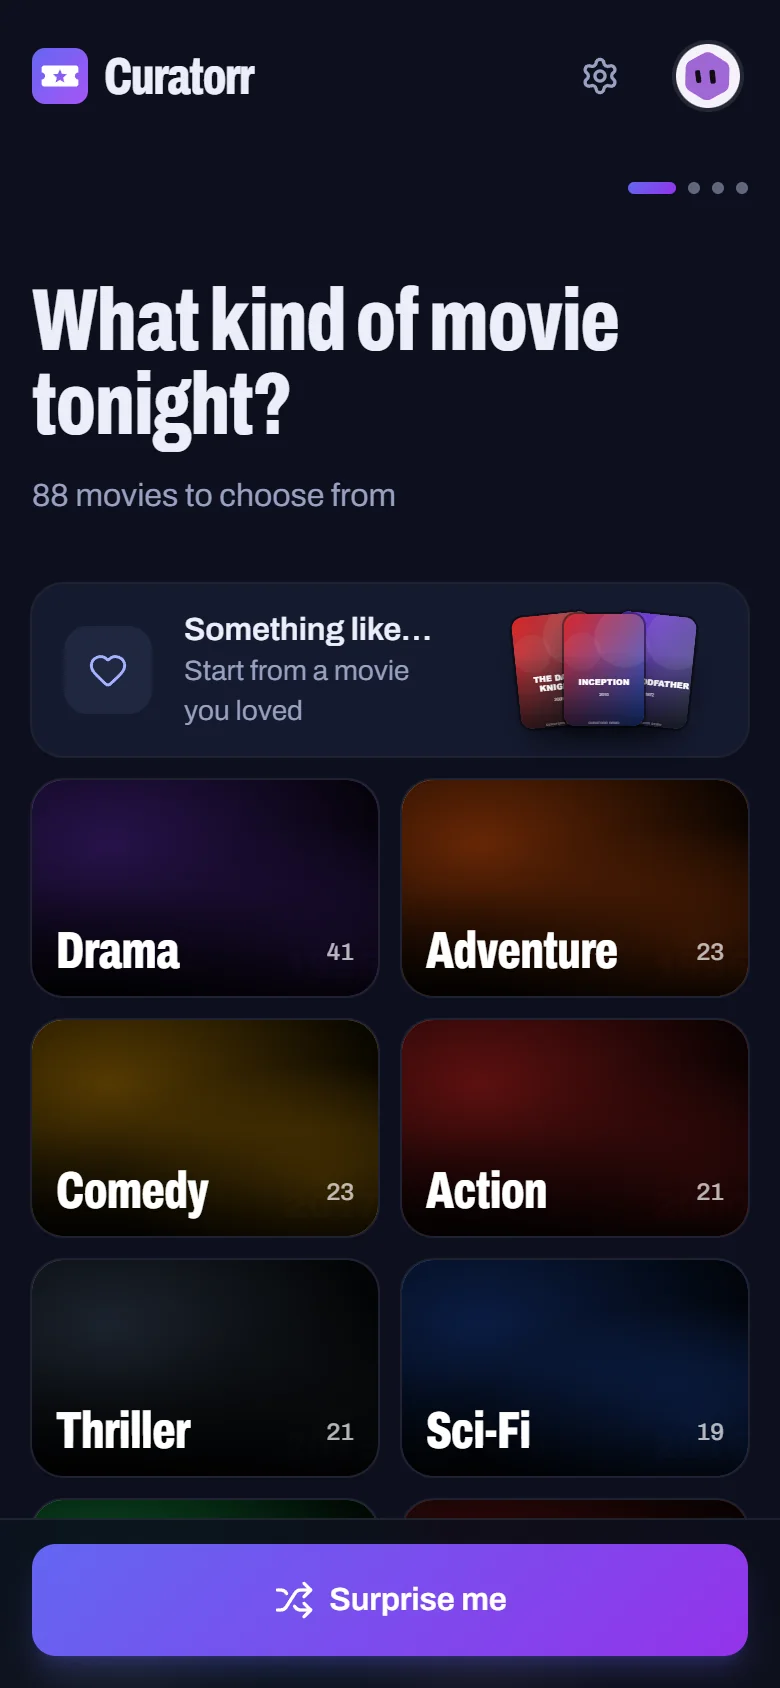
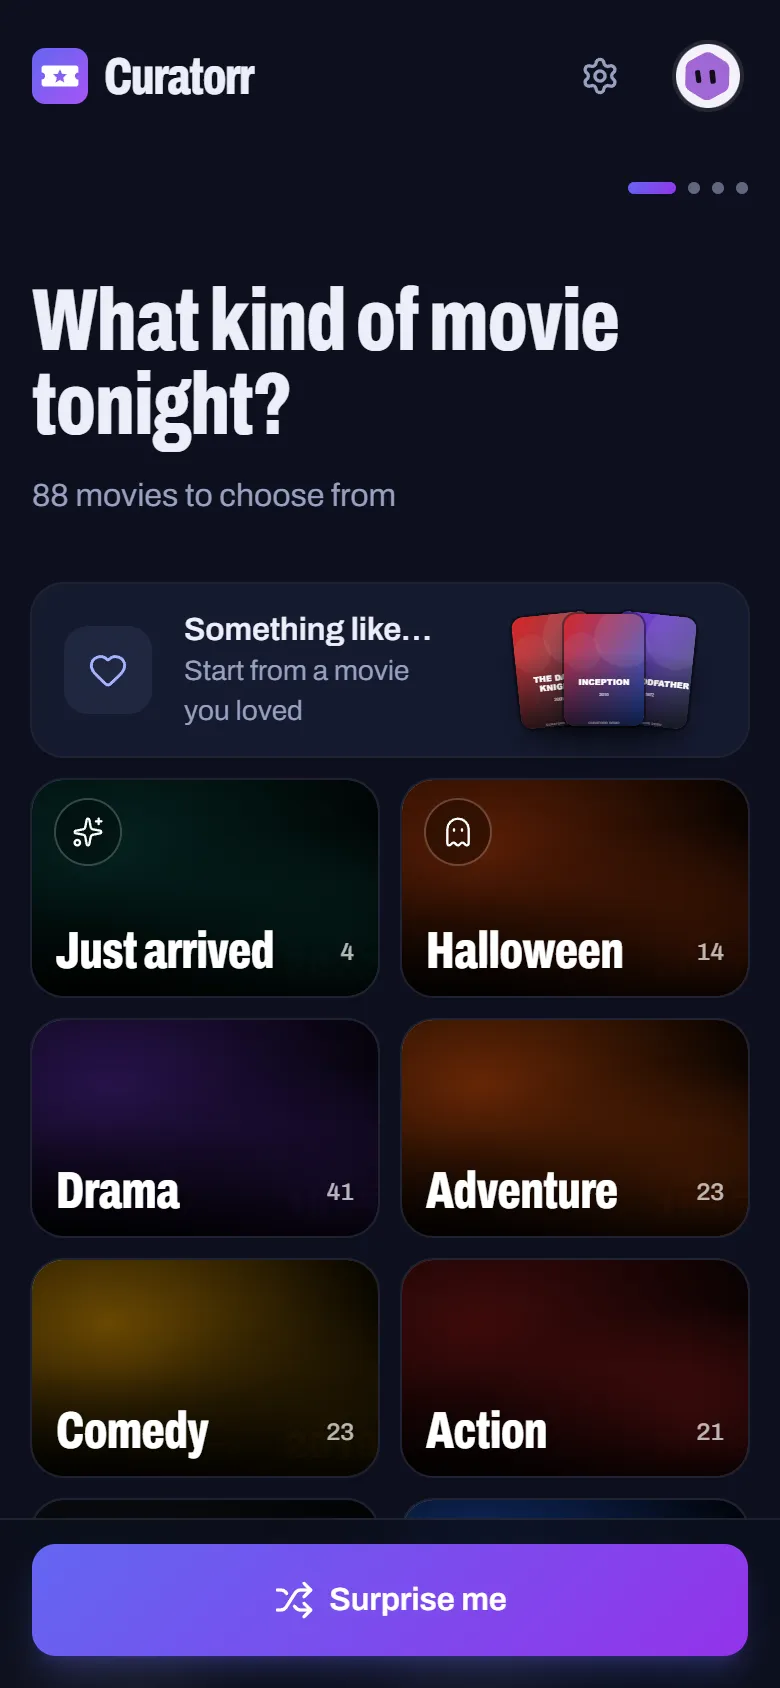
feat(wizard): suggest Halloween movies in October and Christmas movies in December
In October a Halloween tile joins the first question's shortcuts and goes
straight to a pick from the horror, the ghost, vampire and zombie movies
and those set on Halloween, which rank first with a "Set on Halloween"
chip. In December a Christmas tile does the same for Christmas movies.
A season lasts until 4 am after its last night, and its tile needs three
of its movies that the profile may watch. npm run eval reports a Season row.

diff --git a/shared/src/scoring.test.ts b/shared/src/scoring.test.ts
@@ -9,6 +9,7 @@ import {
   type ProfileContext,
 } from './scoring.js';
 import { sagaState } from './sagas.js';
+import { RESTRICTION_CERTS } from './taxonomy.js';
 import type { FeedbackEvent, Movie, Ratings } from './types.js';
 
 const noRatings: Ratings = { rt: null, imdb: null, tmdb: null, metacritic: null };
@@ -551,5 +552,80 @@ describe('Just arrived', () => {
     // Half of it is.
     const half = [...Array.from({ length: 4 }, () => arrived(3)), ...Array.from({ length: 4 }, () => arrived(200))];
     expect(wizardOptions(half, 'genre', {}, { image, now: NOW }).shelves).toHaveLength(1);
+  });
+});
+
+describe('seasons', () => {
+  afterEach(() => vi.unstubAllEnvs());
+  const image = (m: Movie, kind: 'fanart' | 'poster') => (kind === 'fanart' ? m.fanartUrl : m.posterUrl);
+  const OCTOBER = Date.parse('2026-10-20T20:00:00Z');
+  const DECEMBER = Date.parse('2026-12-10T20:00:00Z');
+  const ids = (ranked: { movie: Movie }[]) => ranked.map((r) => r.movie.id).sort((a, b) => a - b);
+  const shelves = (movies: Movie[], now: number) =>
+    (wizardOptions(movies, 'genre', {}, { image, now }).shelves ?? []).map((s) => [s.id, s.count]);
+
+  it('gives Halloween the horror, ghosts, vampires and zombies, and the movies set on Halloween', () => {
+    const spooky = [
+      movie({ genres: ['Horror'] }),
+      movie({ genres: ['Comedy'], themes: { supernatural: 2 } }),
+      movie({ genres: ['Comedy'], themes: { vampires: 2 } }),
+      movie({ genres: ['Action'], themes: { zombies: 2 } }),
+      movie({ genres: ['Family'], keywords: ['halloween party'] }),
+      movie({ genres: ['Family'], keywords: ['trick or treating'] }),
+    ];
+    // Sharks and dinosaurs are monsters, but not Halloween's.
+    const others = [movie({ genres: ['Thriller'], themes: { monsters: 4 } }), movie({ genres: ['Drama'] })];
+    const ranked = rankMovies([...spooky, ...others], { shelf: 'halloween' }, [], { now: OCTOBER, seed: 'test' });
+    expect(ids(ranked)).toEqual(ids(spooky.map((movie) => ({ movie }))));
+  });
+
+  it('puts the movies set on Halloween first, and says so', () => {
+    // Two points lower on Rotten Tomatoes, one lower in score: the +5 lifts it past the shuffle.
+    const set = movie({ genres: ['Horror'], keywords: ['halloween'], ratings: { rt: 80 } });
+    const plain = movie({ genres: ['Horror'], ratings: { rt: 82 } });
+    const ranked = rankMovies([plain, set], { shelf: 'halloween' }, [], { now: OCTOBER, seed: 'test' });
+    expect(ranked.map((r) => r.movie.id)).toEqual([set.id, plain.id]);
+    expect(ranked[0]!.reasons).toContainEqual({ kind: 'season', label: 'Set on Halloween' });
+    expect(ranked[1]!.reasons.some((r) => r.kind === 'season')).toBe(false);
+  });
+
+  it('gives Christmas the movies with Christmas in their keywords', () => {
+    const festive = [movie({ keywords: ['christmas eve'] }), movie({ keywords: ['santa claus'] }), movie({ keywords: ['christmas'] })];
+    const ranked = rankMovies([...festive, movie({ genres: ['Horror'] })], { shelf: 'christmas' }, [], { now: DECEMBER, seed: 'test' });
+    expect(ids(ranked)).toEqual(ids(festive.map((movie) => ({ movie }))));
+  });
+
+  it('offers each season on the first question in its own month, until 4 am after its last night', () => {
+    vi.stubEnv('TZ', 'Europe/Bucharest');
+    const library = [
+      ...Array.from({ length: 3 }, () => movie({ genres: ['Horror'] })),
+      ...Array.from({ length: 3 }, () => movie({ keywords: ['christmas'] })),
+    ];
+    expect(shelves(library, Date.parse('2026-10-01T05:00:00+03:00'))).toEqual([['halloween', 3]]);
+    expect(shelves(library, Date.parse('2026-10-31T23:00:00+02:00'))).toEqual([['halloween', 3]]);
+    expect(shelves(library, Date.parse('2026-11-01T03:30:00+02:00'))).toEqual([['halloween', 3]]);
+    expect(shelves(library, Date.parse('2026-11-01T05:00:00+02:00'))).toEqual([]);
+    expect(shelves(library, Date.parse('2026-12-24T20:00:00+02:00'))).toEqual([['christmas', 3]]);
+  });
+
+  it('needs three movies of the season that the profile may watch, however much of the library they are', () => {
+    const scary = Array.from({ length: 5 }, () => movie({ genres: ['Horror'], certification: 'R' }));
+    const friendly = [movie({ themes: { supernatural: 2 }, certification: 'PG' }), movie({ keywords: ['halloween'], certification: 'G' })];
+    const kids = ctx({ allowedCerts: new Set(RESTRICTION_CERTS.older_kid) });
+    expect(shelves(eligibleMovies([...scary, ...friendly], kids), OCTOBER)).toEqual([]);
+    const more = [...friendly, movie({ themes: { vampires: 2 }, certification: 'PG' })];
+    expect(shelves(eligibleMovies([...scary, ...more], kids), OCTOBER)).toEqual([['halloween', 3]]);
+    // A library of horror is all Halloween, and still gets the tile.
+    expect(shelves(scary, OCTOBER)).toEqual([['halloween', 5]]);
+  });
+
+  it("doesn't bring in a first part that isn't the season's", () => {
+    const part = (n: number, extra: Partial<Movie>) => movie({ genres: ['Comedy'], saga: { id: 70, title: 'Pals', part: n, parts: 2 }, ...extra });
+    const [p1, p2] = [part(1, {}), part(2, { keywords: ['halloween'] })];
+    const horror = movie({ genres: ['Horror'] });
+    const library = [p1, p2, horror];
+    const sagas = sagaState(library, new Set());
+    const ranked = rankMovies(eligibleMovies(library, ctx({ sagas })), { shelf: 'halloween' }, [], { now: OCTOBER, seed: 'test', sagas });
+    expect(ranked.map((r) => r.movie.id)).toEqual([horror.id]);
   });
 });

diff --git a/shared/src/scoring.ts b/shared/src/scoring.ts
@@ -3,15 +3,19 @@ import {
   JUST_ARRIVED,
   MIN_OPTION_COUNT,
   MOODS,
+  SEASONS,
   THEMES,
   TIME_OPTIONS,
   genreById,
   moodById,
+  seasonById,
   themeById,
   timeById,
+  type SeasonDef,
   type ShelfDef,
 } from './taxonomy.js';
 import { emptySagaState, type SagaState } from './sagas.js';
+import { keywordPhrases } from './tagger.js';
 import type {
   Criteria,
   FeedbackEvent,
@@ -204,6 +208,8 @@ export function tagStrength(score: number | undefined) {
 
 function reasonsFor(m: Movie, c: Criteria): Reason[] {
   const reasons: Reason[] = [];
+  const season = c.shelf ? seasonById.get(c.shelf) : undefined;
+  if (season?.chip && onHoliday(m, season)) reasons.push({ kind: 'season', label: season.chip });
   if (c.genre && m.genres.includes(c.genre)) {
     reasons.push({ kind: 'genre', label: genreById.get(c.genre)?.label ?? c.genre });
   }
@@ -355,10 +361,34 @@ export function arrivedLately(m: Movie, now: number) {
   return days != null && days <= JUST_ARRIVED_DAYS;
 }
 
+/** A movie set on the season's holiday itself gets this much on the season's shortcut, so those lead it. */
+const SEASON_BONUS = 5;
+
+/** The season the evening of `now` belongs to, if any. */
+export function seasonFor(now: number): SeasonDef | null {
+  const month = Number(pickingDay(now).slice(5, 7));
+  return SEASONS.find((s) => s.month === month) ?? null;
+}
+
+/** Whether one of the movie's keywords holds a holiday term, as a whole word: "halloween party" does. */
+function onHoliday(m: Movie, season: SeasonDef) {
+  return m.keywords.some((k) => [...keywordPhrases(k)].some((p) => season.keywords.includes(p)));
+}
+
+function inSeason(m: Movie, season: SeasonDef) {
+  return (
+    onHoliday(m, season) ||
+    Boolean(season.genres?.some((g) => m.genres.includes(g))) ||
+    Boolean(season.themes?.some((t) => (m.themes[t] ?? 0) > 0))
+  );
+}
+
 /** Whether the movie belongs on the shortcut's shelf; without one, every movie does. */
 export function matchesShelf(m: Movie, shelf: string | null | undefined, now: number) {
   if (!shelf) return true;
-  return shelf === JUST_ARRIVED.id && arrivedLately(m, now);
+  if (shelf === JUST_ARRIVED.id) return arrivedLately(m, now);
+  const season = seasonById.get(shelf);
+  return season ? inSeason(m, season) : false;
 }
 
 /** Skip and shown penalties, the request or watchlist bonus, the newly added bonus and the daily jitter. */
@@ -436,6 +466,7 @@ export function rankMovies(
   const signals = profileSignals(feedback, opts);
   const sagas = opts.sagas ?? emptySagaState();
   const startingSaga = c.time === 'saga';
+  const season = c.shelf ? seasonById.get(c.shelf) : undefined;
 
   // "Start a saga" only offers first parts of sagas the profile hasn't started.
   const base = eligible.filter(
@@ -446,8 +477,8 @@ export function rankMovies(
       (!startingSaga || sagas.starters.has(m.id)),
   );
 
-  // A matching sequel whose earlier part is unwatched brings in that part instead,
-  // as long as it fits the genre and time answers. On "Just arrived" it needn't be new itself.
+  // A matching sequel whose earlier part is unwatched brings in that part instead, as long as it
+  // fits the genre and time answers, and a season's shortcut. On "Just arrived" it needn't be new.
   const startsFor = new Set<number>();
   if (!startingSaga) {
     const eligibleById = new Map(eligible.map((m) => [m.id, m]));
@@ -457,6 +488,7 @@ export function rankMovies(
         const first = eligibleById.get(sagas.blockedBy.get(sequel.id)?.id ?? -1);
         if (!first || !matchesCriteria(sequel, c) || !matchesShelf(sequel, c.shelf, opts.now)) continue;
         if (!matchesGenre(first, c.genre) || !matchesTime(first, c.time)) continue;
+        if (season && !inSeason(first, season)) continue;
         startsFor.add(first.id);
         if (!inBase.has(first.id)) {
           base.push(first);
@@ -506,6 +538,7 @@ export function rankMovies(
     }
     if (c.theme) score += MAX_THEME_BONUS * tagStrength(m.themes[c.theme]);
     if (c.mood) score += MAX_MOOD_BONUS * tagStrength(m.moods[c.mood]);
+    if (season && onHoliday(m, season)) score += SEASON_BONUS;
     score += taste.get(m.id) ?? 0;
 
     const adj = personalAdjustment(m, signals, opts);
@@ -587,6 +620,10 @@ function shelfOptions(pool: Movie[], now: number, opts: FacetOptions, used: Set<
   if (fresh.length >= MIN_OPTION_COUNT && fresh.length <= pool.length / 2) {
     out.push(shelfOption(JUST_ARRIVED, fresh, opts, used));
   }
+  // However much of the library is the season's: a library of horror is all Halloween.
+  const season = seasonFor(now);
+  const seasonal = season ? pool.filter((m) => inSeason(m, season)) : [];
+  if (season && seasonal.length >= MIN_OPTION_COUNT) out.push(shelfOption(season, seasonal, opts, used));
   return out;
 }
 

diff --git a/shared/src/taxonomy.ts b/shared/src/taxonomy.ts
@@ -454,7 +454,34 @@ export interface ShelfDef {
 /** The movies that arrived in the library lately. */
 export const JUST_ARRIVED: ShelfDef = { id: 'new', label: 'Just arrived', icon: 'Sparkles', color: '#0f766e' };
 
-export const SHELVES: ShelfDef[] = [JUST_ARRIVED];
+/** A season's movies, offered as a shortcut during its month. */
+export interface SeasonDef extends ShelfDef {
+  /** 1–12, by the evening's date (the day turns over at 4 am). */
+  month: number;
+  /** Keywords that set a movie on the holiday itself, also inside longer keywords ("halloween party"). */
+  keywords: string[];
+  /** The chip for those movies, which rank first. */
+  chip?: string;
+  /** Genres and themes that fit the season too. */
+  genres?: string[];
+  themes?: string[];
+}
+
+export const SEASONS: SeasonDef[] = [
+  {
+    id: 'halloween', label: 'Halloween', icon: 'Ghost', color: '#c2410c', month: 10,
+    keywords: ['halloween', 'trick or treating'], chip: 'Set on Halloween',
+    // Not Monsters & Creatures: sharks, dinosaurs and kaiju aren't Halloween's.
+    genres: ['Horror'], themes: ['supernatural', 'vampires', 'zombies'],
+  },
+  {
+    id: 'christmas', label: 'Christmas', icon: 'TreePine', color: '#15803d', month: 12,
+    // Every match is set at Christmas, so none needs a chip.
+    keywords: ['christmas', 'santa claus'],
+  },
+];
+
+export const SHELVES: ShelfDef[] = [JUST_ARRIVED, ...SEASONS];
 
 /** Certifications allowed per Plex Home restriction profile (US, UK and DE ratings). */
 export const RESTRICTION_CERTS: Record<'little_kid' | 'older_kid' | 'teen', string[]> = {
@@ -473,3 +500,4 @@ export const moodById = new Map(MOODS.map((m) => [m.id, m]));
 export const genreById = new Map(GENRES.map((g) => [g.id, g]));
 export const timeById = new Map(TIME_OPTIONS.map((t) => [t.id, t]));
 export const shelfById = new Map(SHELVES.map((s) => [s.id, s]));
+export const seasonById = new Map(SEASONS.map((s) => [s.id, s]));

diff --git a/server/src/scripts/eval.ts b/server/src/scripts/eval.ts
@@ -216,7 +216,7 @@ const rank = (p: Picking, c: Criteria, limit?: number) => {
 // Would it have suggested what the profile watched?
 // ---------------------------------------------------------------------------
 
-const FAMILIES = ['Surprise me', 'genre', 'genre + theme', 'genre + mood', 'Just arrived'] as const;
+const FAMILIES = ['Surprise me', 'genre', 'genre + theme', 'genre + mood', 'Just arrived', 'Season'] as const;
 type Family = (typeof FAMILIES)[number];
 
 /** How one watch fared for one kind of question (averaged over the questions of that kind). */
@@ -245,9 +245,8 @@ function questions(p: Picking, m: Movie): { family: Family; c: Criteria }[] {
   const out: { family: Family; c: Criteria }[] = [{ family: 'Surprise me', c: {} }];
   const first = wizardOptions(p.eligible, 'genre', {}, { ...facet, now: p.opts.now });
   for (const shelf of first.shelves ?? []) {
-    if (shelf.id === JUST_ARRIVED.id && matchesShelf(m, shelf.id, p.opts.now)) {
-      out.push({ family: 'Just arrived', c: { shelf: shelf.id } });
-    }
+    if (!matchesShelf(m, shelf.id, p.opts.now)) continue;
+    out.push({ family: shelf.id === JUST_ARRIVED.id ? 'Just arrived' : 'Season', c: { shelf: shelf.id } });
   }
   const genres = new Set(first.options.map((o) => o.id));
   for (const genre of m.genres.filter((g) => genres.has(g))) {

diff --git a/shared/src/types.ts b/shared/src/types.ts
@@ -113,7 +113,19 @@ export interface WizardOptionsResponse {
 }
 
 export interface Reason {
-  kind: 'genre' | 'theme' | 'mood' | 'keyword' | 'time' | 'rating' | 'watchlist' | 'requested' | 'saga' | 'added' | 'taste';
+  kind:
+    | 'genre'
+    | 'theme'
+    | 'mood'
+    | 'keyword'
+    | 'time'
+    | 'rating'
+    | 'watchlist'
+    | 'requested'
+    | 'saga'
+    | 'added'
+    | 'taste'
+    | 'season';
   label: string;
 }
 

diff --git a/README.md b/README.md
@@ -20,6 +20,7 @@ It's a self-hosted, installable PWA built for the *arr stack, with a look borrow
 - **Plex Home or Jellyfin profiles.** Each person picks their profile and never gets suggestions for movies they already watched in Plex or Jellyfin. Parental restrictions carry over, and with Jellyfin, so does which libraries each person can open.
 - **Smart questions.** The wizard only offers answers that match at least three movies in your library, and skips questions that wouldn't narrow anything down. Or tap **Surprise me** to skip the questions and get one of the ten best picks, drawn again each evening.
 - **Just arrived.** A tile on the first question goes straight to the best of what arrived in your library this past month, each pick saying when it came.
+- **In season.** In October a **Halloween** tile goes straight to a spooky pick, movies set on Halloween first. In December a **Christmas** tile does the same for Christmas movies.
 - **Something like…** Start from a movie you loved (what you watched lately is listed first, or search the library) and get the unwatched movies that share the most keywords and themes with it.
 - **Ranked by critics, audiences and you.** The Rotten Tomatoes critics' score counts as much as the IMDb audience rating, so a crowd-pleaser the critics panned still gets its chance. Movies that just arrived rank higher for a few weeks, and each person's picks lean toward what they watched lately, saying "Because you watched …" when that made the difference.
 - **Not tonight / Watchlist / Seen it / Never.** Swipe or tap, and undo any of them. "Not tonight" lowers a movie for two weeks, and longer each time you pass on it again. "Watchlist" saves it and ranks it higher next time. "Seen it" and "Never" hide it until you restore it in Settings. A pick you're shown but don't play slips a little each evening, so the same few movies don't come back every night.
@@ -31,7 +32,7 @@ It's a self-hosted, installable PWA built for the *arr stack, with a look borrow
 ## Screenshots
 
 <p align="center">
-  <img src="docs/screenshots/wizard.webp" width="260" alt="The first question, What kind of movie tonight?, with genre cards, Something like… and Surprise me">
+  <img src="docs/screenshots/wizard.webp" width="260" alt="The first question, What kind of movie tonight?, with Something like…, the Just arrived and Halloween shortcuts, genre cards and Surprise me">
   <img src="docs/screenshots/pick.webp" width="260" alt="Tonight's pick: Avengers: Endgame, with its ratings, its Time Travel theme and a Watch on Plex button">
   <img src="docs/screenshots/like.webp" width="260" alt="Something like Inception: Everything Everywhere All at Once, labelled You requested this and Added 6 days ago">
 </p>
@@ -132,6 +133,8 @@ If your proxy asks people to sign in, let `/api/radarr/webhook` through. Radarr 
 5. **Close matches**: if fewer than six movies match every answer, the list is topped up with other movies of that genre and length, clearly labelled: first those matching the theme *or* the mood, then the rest.
 6. **Something like…**: eligible movies are compared with the one you loved by their TMDB keywords, themes, moods and genres. A rare keyword in common (*time loop*) counts for more than a common one. Likeness decides the order and the rating breaks near-ties. Skips, shown picks, requests, the watchlist, new arrivals and the daily shuffle work as above. Other parts of the same saga are left out, and movies that only share a genre or a mood are labelled as loose matches.
 7. **Shortcuts**: tiles on the first question that go straight to a pick, ranked as above, without the questions. **Just arrived** has the movies whose file arrived in the last 30 days. Its tile shows when there are at least three of them, and no more than half of what's left to watch, so a library you just imported isn't all "new". A sequel that just arrived brings in its first part if you haven't seen it, as answers do.
+
+   **Halloween** (in October, until 4 am after its last night) has horror and the movies tagged Supernatural, Vampires or Zombies, plus any set on Halloween (a *halloween* or *trick or treating* keyword). Those get + 5 and a "Set on Halloween" chip. **Christmas** (in December) has the movies with a *christmas* or *santa claus* keyword. A season's tile needs three of its movies that the person may watch; a first part only comes along if it fits the season too.
 
 ## Configuration
 

diff --git a/CLAUDE.md b/CLAUDE.md
@@ -32,7 +32,7 @@ npm run icons        # regenerates the committed PWA icons from web/public/logo.
 An npm workspace in three parts. `@curatorr/shared` is consumed as TypeScript source (no build step).
 
 - **`shared/`**: pure, unit-tested logic used by both sides.
-  - `taxonomy.ts`: the genre, theme, mood and time vocabulary, the first question's shortcuts (`SHELVES`, `JUST_ARRIVED`), plus wizard constants (`STEP_ORDER`, `MIN_OPTION_COUNT = 3`).
+  - `taxonomy.ts`: the genre, theme, mood and time vocabulary, the first question's shortcuts (`SHELVES`: `JUST_ARRIVED` and the `SEASONS`), plus wizard constants (`STEP_ORDER`, `MIN_OPTION_COUNT = 3`).
   - `tagger.ts`: turns TMDB genres, keywords and overview into themes and moods. `explainTags` keeps the evidence behind each tag.
     - Each keyword counts once per tag, through its best term, and each term counts once.
     - Weak terms only back up a strong term, an implying genre or the plot (for moods: a genre lean, a strong term or the runtime bonus). TMDB's tone words (amused, hopeful…) are weak for Light & Fun and Feel-Good because they're noisy.
@@ -46,7 +46,12 @@ An npm workspace in three parts. `@curatorr/shared` is consumed as TypeScript so
     - **Shortcuts** (`Criteria.shelf`): `matchesShelf` keeps a shortcut's movies, ranked as usual and not shuffled.
       - Given `now`, `wizardOptions` returns them as `shelves` on the genre step. `npm run eval` reports each as a row of its own.
       - **Just arrived** (`'new'`) is the movies that arrived in the last `JUST_ARRIVED_DAYS` (30), by `arrivalTime`. Its tile needs at least 3 of them and at most half of the pool, so a library imported last week isn't all "new". Every pick on it says when it arrived.
-      - A new sequel still brings in its unwatched first part, as answers do.
+      - **Seasons** (`SEASONS`):
+        - **Halloween** is October and **Christmas** is December, by `pickingDay`, so the last night lasts until 4 am (`seasonFor`).
+        - A season has keywords that set a movie on the holiday itself (found inside longer keywords through `keywordPhrases`), plus genres and themes that fit it. Halloween is Horror, Supernatural, Vampires and Zombies; Monsters is left out because of its sharks and kaiju.
+        - Keyword matches get `SEASON_BONUS` (5) and the season's chip.
+        - The tile needs at least 3 movies, with no half rule.
+      - **Sagas:** a new sequel still brings in its unwatched first part, as answers do. On a season, the first part must fit the season too.
   - `taste.ts`: a profile's taste vector, summed from the `similar.ts` signatures of what it watched: media server watches and `accepted` count fully, `seen` 0.3, with a 60-day half-life. Confidence grows with history and is 0 without any. Only events before the day's 4 am turnover (`dayStart`) count, so an evening's picks don't move.
   - `similar.ts`: "Something like…". `rankSimilar` ranks eligible movies by cosine similarity to a liked movie (keywords weighted by rarity, plus themes, moods and genres). It reuses `personalAdjustment` from `scoring.ts`, but not taste.
   - `sagas.ts`: collection ordering.
